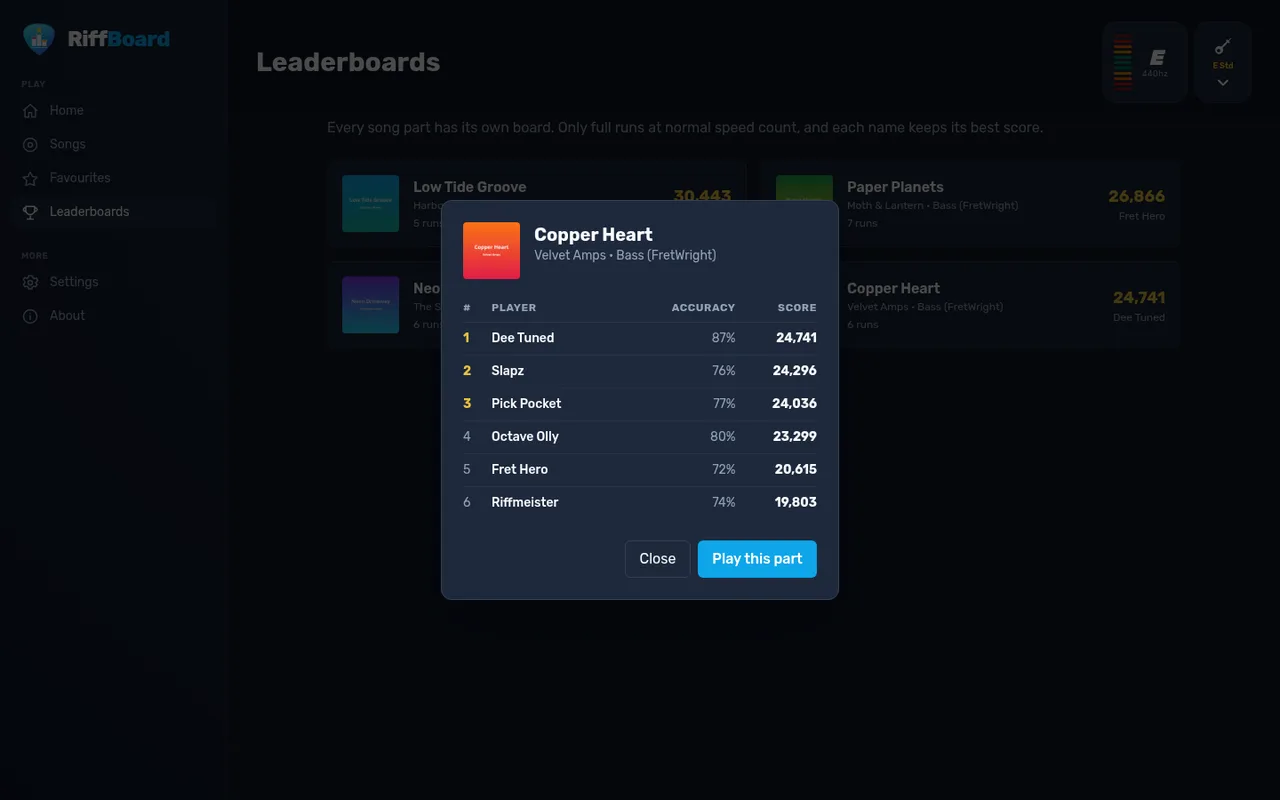
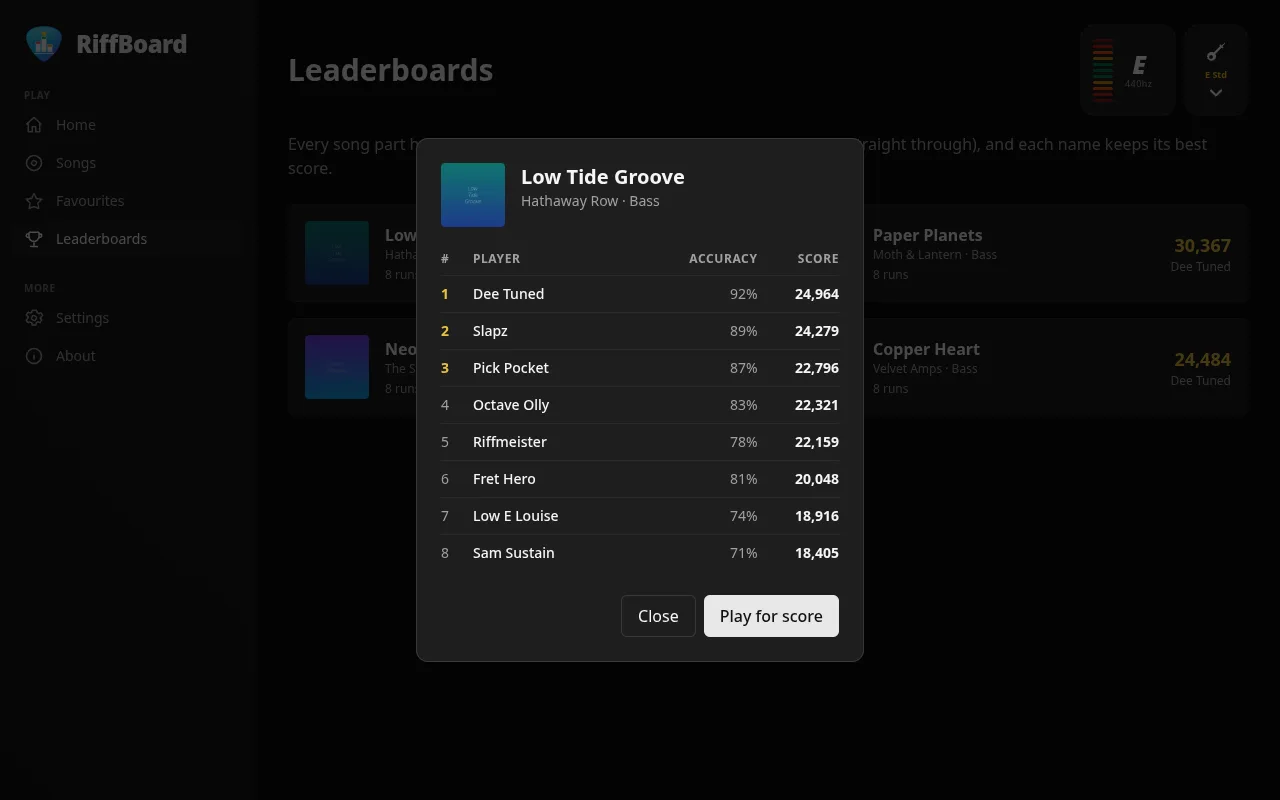
Fix the Leaderboards page and refresh screenshots
The summary query used an aggregate inside a subquery, which SQLite refuses. The
error was swallowed, so the page always said there were no scores. Added a test.

diff --git a/src/store.rs b/src/store.rs
@@ -222,10 +222,11 @@ impl Store {
     pub fn summary(&self) -> Vec<(String, i64, i64, i64, String)> {
         let c = self.conn.lock().unwrap();
         let Ok(mut st) = c.prepare(
-            "SELECT s.filename, s.arrangement, COUNT(*), MAX(s.score),
-                    (SELECT name FROM scores t WHERE t.filename = s.filename AND t.arrangement = s.arrangement
-                       AND t.score = MAX(s.score) ORDER BY t.created_at ASC LIMIT 1)
-             FROM scores s GROUP BY s.filename, s.arrangement") else { return vec![] };
+            "SELECT a.filename, a.arrangement, a.runs, a.top,
+                    (SELECT name FROM scores t WHERE t.filename = a.filename AND t.arrangement = a.arrangement
+                       AND t.score = a.top ORDER BY t.created_at ASC LIMIT 1)
+             FROM (SELECT filename, arrangement, COUNT(*) AS runs, MAX(score) AS top
+                   FROM scores GROUP BY filename, arrangement) a") else { return vec![] };
         st.query_map([], |r| {
             Ok((
                 r.get(0)?,
@@ -273,6 +274,26 @@ pub fn write_private(path: &Path, contents: &str) {
 #[cfg(test)]
 mod tests {
     use super::*;
+
+    #[test]
+    fn summary_lists_each_board_with_its_leader() {
+        let dir = std::env::temp_dir().join(format!("rb-summary-{}", std::process::id()));
+        std::fs::create_dir_all(&dir).unwrap();
+        let store = Store::open(&dir).unwrap();
+        store.add("a.feedpak", 0, "Low", 100, 0.5, 5, 5, 2, "1.1.1.1").unwrap();
+        store.add("a.feedpak", 0, "High", 900, 0.9, 9, 1, 7, "1.1.1.2").unwrap();
+        store.add("b.feedpak", 1, "Solo", 50, 0.2, 2, 8, 1, "1.1.1.3").unwrap();
+        let mut boards = store.summary();
+        boards.sort();
+        assert_eq!(
+            boards,
+            vec![
+                ("a.feedpak".to_string(), 0, 2, 900, "High".to_string()),
+                ("b.feedpak".to_string(), 1, 1, 50, "Solo".to_string()),
+            ]
+        );
+        std::fs::remove_dir_all(&dir).ok();
+    }
 
     #[test]
     fn names() {

diff --git a/CHANGELOG.md b/CHANGELOG.md
@@ -12,6 +12,10 @@ the fork is in [docs/upstream-changelog.md](docs/upstream-changelog.md).
 - The out-of-the-box theme is now plain monochrome, in light and dark, with the system font.
 - A band's `site.json` can now set the whole palette and choose the Rubik font, so a theme can look exactly as its band wants.
 
+### Fixed
+
+- The Leaderboards page always said "No scores yet", because its database query failed silently. Scores were saved correctly and now show up.
+
 ## [0.2.0] - 2026-11-03
 
 ### Changed
